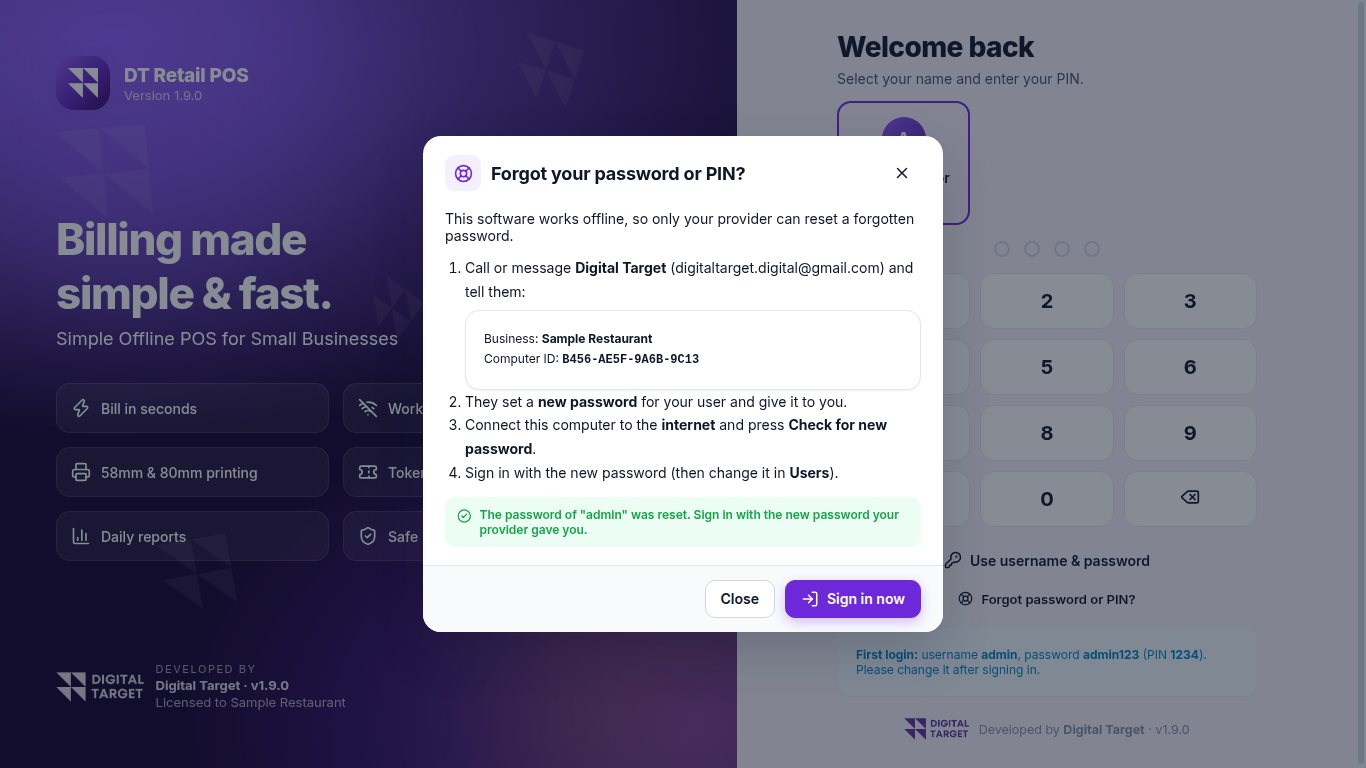
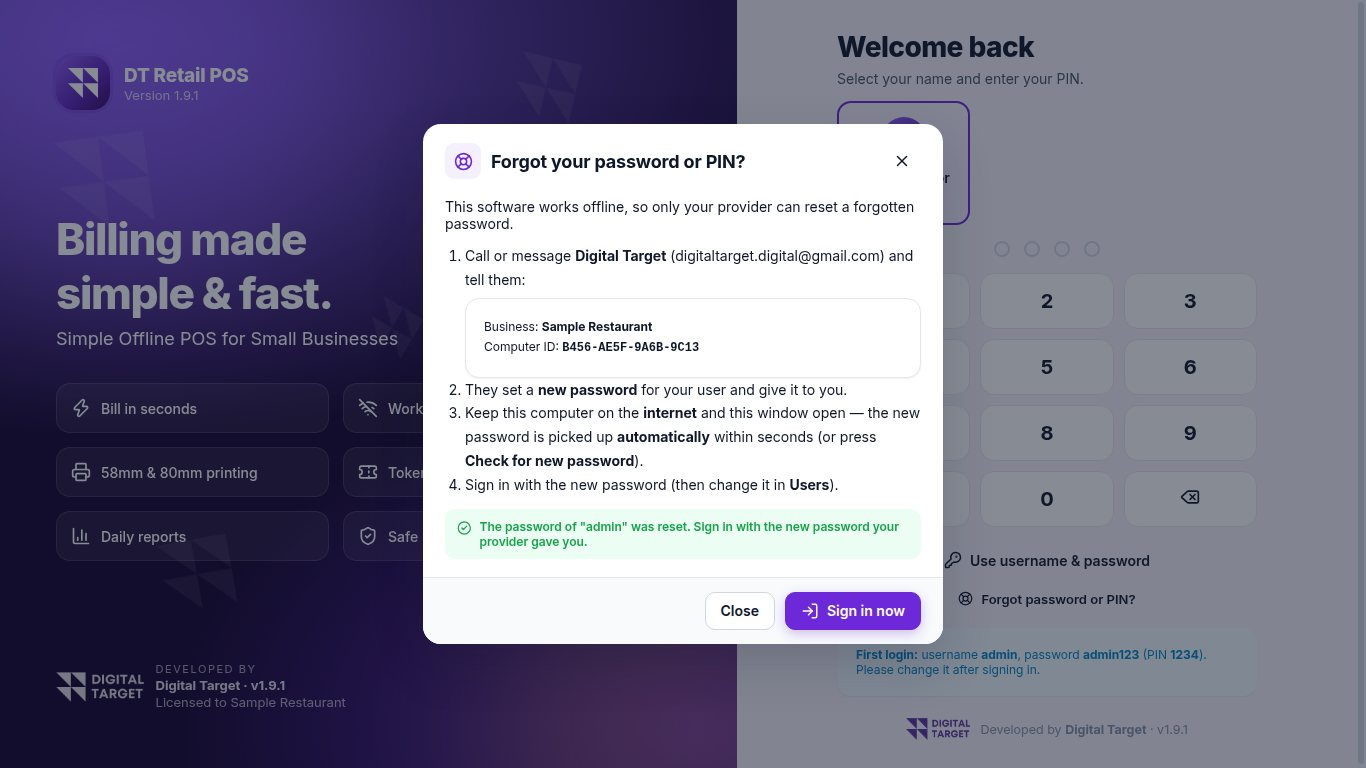
v1.9.1: password reset appears at once on the login screen
- The "Forgot password or PIN?" window checks for the provider's reset every 8 seconds by itself
- A reset applied by the background check is still announced for 30 minutes (no silent window)
- Panel version label, docs and screenshots refreshed; license e2e now waits for the automatic pick-up

Claude-Session: https://claude.ai/code/session_01Ww8SRUiWRq8sQYBtqpzwjb

diff --git a/electron/license/license.js b/electron/license/license.js
@@ -450,6 +450,7 @@ function sendHeartbeat(lid, mid) {
 
 /** Called at login: send the device details and a fresh location right away. */
 function touch() {
+  lastReset = null; // somebody signed in: the reset notice has done its job
   const s = load();
   const p = keyPayload();
   if (!p || !s.device || s.device.regMid !== machineId()) return;
@@ -459,6 +460,11 @@ function touch() {
 }
 
 let resetBusy = false;
+let lastReset = null; // { username, at } — a reset that was applied recently, so the login screen can still announce it
+const RESET_NOTICE_MS = 30 * 60 * 1000;
+const resetNotice = () => (lastReset && Date.now() - lastReset.at < RESET_NOTICE_MS
+  ? { state: 'applied', username: lastReset.username, message: `The password of "${lastReset.username}" was reset. Sign in with the new password your provider gave you.` }
+  : null);
 /**
  * Apply a password reset prepared by the provider in the Super Admin panel (needs internet; also runs with every
  * online check). Resolves to { state: 'applied' | 'none' | 'failed' | 'expired' | 'offline', username, message }.
@@ -478,7 +484,7 @@ async function checkPasswordReset() {
       if (err instanceof cloud.CloudError && err.offline) return { state: 'offline', message: 'No internet connection. Connect to the internet and try again.' };
       return { state: 'none', message: 'Could not reach the provider right now. Try again in a minute.' };
     }
-    if (!doc || doc.status !== 'pending' || doc.licenseId !== p.lid || doc.machineId !== mid) return { state: 'none', message: 'No password reset is waiting for this computer. Ask your provider to reset it, then press the button again.' };
+    if (!doc || doc.status !== 'pending' || doc.licenseId !== p.lid || doc.machineId !== mid) return resetNotice() || { state: 'none', message: 'No password reset is waiting for this computer. Ask your provider to reset it, then press the button again.' };
     if (!doc.expiresAt || !(new Date(doc.expiresAt).getTime() > Date.now())) {
       await cloud.finishPasswordReset(p.lid, mid, 'expired', 'Not applied in time').catch(() => {});
       return { state: 'expired', username: doc.username, message: 'This reset has expired. Ask your provider to send a new one.' };
@@ -486,6 +492,7 @@ async function checkPasswordReset() {
     const r = require('../services/auth').applyRemoteReset({ username: doc.username, passwordHash: doc.passwordHash, pinHash: doc.pinHash, removePin: doc.removePin === true });
     await cloud.finishPasswordReset(p.lid, mid, r.ok ? 'applied' : 'failed', r.ok ? 'Applied on the computer' : r.message).catch((err) => logger.warn('Could not report the password reset', err.message));
     logger[r.ok ? 'info' : 'warn']('Remote password reset', doc.username, r.ok ? 'applied' : r.message);
+    if (r.ok) lastReset = { username: r.username, at: Date.now() };
     return { state: r.ok ? 'applied' : 'failed', username: r.username, message: r.ok ? `The password of "${r.username}" was reset. Sign in with the new password your provider gave you.` : r.message };
   } finally {
     resetBusy = false;

diff --git a/tests/e2e-license.js b/tests/e2e-license.js
@@ -56,7 +56,7 @@ const server = http.createServer((req, res) => {
 });
 
 let failed = false;
-const step = async (name, fn) => { try { await fn(); console.log('OK  ', name); } catch (e) { failed = true; console.log('FAIL', name, String(e.message).split('\n')[0]); } };
+const step = async (name, fn) => { try { await fn(); console.log('OK  ', name); } catch (e) { failed = true; console.log('FAIL', name, String(e.message).split('\n')[0]); try { await globalThis.__page.screenshot({ path: path.join(SHOTS, 'fail-lic-' + name.replace(/\W+/g, '_').slice(0, 40) + '.png') }); } catch { /* ignore */ } } };
 
 (async () => {
   await new Promise((r) => server.listen(0, '127.0.0.1', r));
@@ -70,6 +70,7 @@ const step = async (name, fn) => { try { await fn(); console.log('OK  ', name); 
     page.on('pageerror', (e) => errors.push('pageerror: ' + e.message + ' ' + String(e.stack).split('\n').slice(0, 4).join(' | ')));
     page.on('console', (m) => m.type() === 'error' && errors.push('console: ' + m.text()));
     await page.setViewportSize({ width: 1366, height: 768 });
+    globalThis.__page = page;
     return { page, errors };
   };
   const blank = async (page) => (await page.evaluate(() => document.body.innerText.trim().length)) === 0;
@@ -133,13 +134,13 @@ const step = async (name, fn) => { try { await fn(); console.log('OK  ', name); 
     const mid = dk.split('_')[1];
     const salt = crypto.randomBytes(16);
     const hash = `pbkdf2$210000$${salt.toString('hex')}$${crypto.pbkdf2Sync('Fresh#2026', salt, 210000, 32, 'sha256').toString('hex')}`;
-    db.set(`passwordResets/LIC1_${mid}`, { licenseId: str('LIC1'), machineId: str(mid), username: str('admin'), passwordHash: str(hash), pinHash: str(''), removePin: { booleanValue: false }, status: str('pending'), note: str(''), expiresAt: { timestampValue: new Date(Date.now() + 7 * 864e5).toISOString() } });
     await page.click('button:has-text("Forgot password or PIN?")');
     await page.waitForSelector('.modal:has-text("Forgot your password or PIN?")');
     await page.waitForTimeout(900);
     await page.screenshot({ path: path.join(SHOTS, '72-forgot-password.png') });
-    await page.click('.modal button:has-text("Check for new password")');
-    await page.waitForSelector('.modal:has-text("was reset")', { timeout: 20000 });
+    // the provider sets the new password NOW; the open window must pick it up by itself (no button press)
+    db.set(`passwordResets/LIC1_${mid}`, { licenseId: str('LIC1'), machineId: str(mid), username: str('admin'), passwordHash: str(hash), pinHash: str(''), removePin: { booleanValue: false }, status: str('pending'), note: str(''), expiresAt: { timestampValue: new Date(Date.now() + 7 * 864e5).toISOString() } });
+    await page.waitForSelector('.modal:has-text("was reset")', { timeout: 40000 });
     await page.screenshot({ path: path.join(SHOTS, '73-reset-applied.png') });
     await page.click('.modal button:has-text("Sign in now")');
     await page.fill('input[type=password]', 'Fresh#2026');

diff --git a/src/pages/Login.jsx b/src/pages/Login.jsx
@@ -237,17 +237,30 @@ export default function Login() {
 function ForgotModal({ license, onClose, onApplied }) {
   const [busy, setBusy] = useState(false);
   const [res, setRes] = useState(null);
-  const check = async () => {
-    setBusy(true);
+  const check = async (quiet = false) => {
+    if (!quiet) setBusy(true);
     try {
-      setRes(await api('auth.checkReset'));
+      const r = await api('auth.checkReset');
+      // while waiting, only a real result replaces the screen ("nothing yet" stays silent)
+      if (!quiet || r.state === 'applied' || r.state === 'failed' || r.state === 'expired') setRes(r);
     } catch (e) {
-      setRes({ state: 'failed', message: e.message });
+      if (!quiet) setRes({ state: 'failed', message: e.message });
     } finally {
-      setBusy(false);
+      if (!quiet) setBusy(false);
     }
   };
   const ok = res?.state === 'applied';
+
+  // The provider's reset shows up by itself: look every 8 seconds while this window is open.
+  useEffect(() => {
+    if (ok) return undefined;
+    const t = setInterval(() => {
+      check(true);
+    }, 8000);
+    return () => {
+      clearInterval(t);
+    };
+  }, [ok]); // eslint-disable-line react-hooks/exhaustive-deps
   return (
     <Modal
       title="Forgot your password or PIN?"
@@ -257,7 +270,7 @@ function ForgotModal({ license, onClose, onApplied }) {
       footer={
         <>
           <Button onClick={onClose}>Close</Button>
-          {ok ? <Button variant="primary" icon={LogIn} onClick={() => onApplied(res.username)}>Sign in now</Button> : <Button variant="primary" icon={RefreshCw} loading={busy} onClick={check}>Check for new password</Button>}
+          {ok ? <Button variant="primary" icon={LogIn} onClick={() => onApplied(res.username)}>Sign in now</Button> : <Button variant="primary" icon={RefreshCw} loading={busy} onClick={() => check(false)}>Check for new password</Button>}
         </>
       }
     >
@@ -271,7 +284,7 @@ function ForgotModal({ license, onClose, onApplied }) {
             </div>
           </li>
           <li>They set a <b>new password</b> for your user and give it to you.</li>
-          <li>Connect this computer to the <b>internet</b> and press <b>Check for new password</b>.</li>
+          <li>Keep this computer on the <b>internet</b> and this window open — the new password is picked up <b>automatically</b> within seconds (or press <b>Check for new password</b>).</li>
           <li>Sign in with the new password (then change it in <b>Users</b>).</li>
         </ol>
         {res && (

diff --git a/superadmin/src/components/Brand.jsx b/superadmin/src/components/Brand.jsx
@@ -1,7 +1,7 @@
 import lockupWhite from '../assets/brand/dt-lockup-white.png';
 import lockupPurple from '../assets/brand/dt-lockup-purple.png';
 
-export const BRAND = { developer: 'Digital Target', product: 'DT Retail POS', panel: 'Super Admin', email: 'digitaltarget.digital@gmail.com', version: '1.9.0' };
+export const BRAND = { developer: 'Digital Target', product: 'DT Retail POS', panel: 'Super Admin', email: 'digitaltarget.digital@gmail.com', version: '1.9.1' };
 export const DT_LOCKUP_WHITE = lockupWhite;
 export const DT_LOCKUP_PURPLE = lockupPurple;
 

diff --git a/docs/DT_RETAIL_POS_SYSTEM_DETAILS.md b/docs/DT_RETAIL_POS_SYSTEM_DETAILS.md
@@ -1,6 +1,6 @@
 # DT Retail POS — System Details (Mukammal Tafseel)
 
-**Version 1.9.0 · Developed by Digital Target · digitaltarget.digital@gmail.com**
+**Version 1.9.1 · Developed by Digital Target · digitaltarget.digital@gmail.com**
 
 Yeh document **DT Retail POS** system ki poori tafseel hai: yeh kya hai, kya kya kar sakta hai, kaise kaam karta hai, license aur security ka nizam, technical dhancha, kya test hua aur kya abhi baqi hai. Is ko owner, investor, ya technical team — sab padh sakte hain. Roz ke istemaal ka tareeqa alag document **User Guide** (`DT_RETAIL_POS_USER_GUIDE.pdf`) mein hai.
 
@@ -208,7 +208,7 @@ POS offline software hai, isliye bhoola hua password software ke andar reset nah
 
 1. Provider panel mein **Devices** (ya **Licenses**) → restaurant ke saamne **chabi ka button** → user, naya password (aur chahe to PIN) → **Reset password**.
 2. Panel browser mein password ka **PBKDF2-SHA256 hash** (210,000 iterations) banata hai aur sirf hash `passwordResets/{licenseId}_{machineId}` mein likhta hai. **Asal password kahin save nahi hota**; woh sirf provider ko ek dafa dikhta hai taake client ko bata sake.
-3. Restaurant ka POS jab online ho (har minute ke check mein, ya login screen par **Forgot password or PIN? → Check for new password**) reset ko lagata hai: us user ka password (aur PIN) badal jata hai, ghalat-koshish ka lock khul jata hai, aur server par `status = applied` likh kar **hash mita deta hai**.
+3. Restaurant ka POS jab online ho reset ko lagata hai — har minute ke check mein, aur agar login screen par **Forgot password or PIN?** window khuli ho to **har 8 second mein khud** (button dabana zaroori nahi): us user ka password (aur PIN) badal jata hai, ghalat-koshish ka lock khul jata hai, aur server par `status = applied` likh kar **hash mita deta hai**.
 4. Reset sirf **usi computer** ke liye hota hai (license + machine id milte hain), **7 din** mein expire, aur **ek hi dafa** lagta hai. Pehle login par hash khud scrypt mein badal jata hai. Har reset provider ke **Activity Log** mein.
 
 **Hifazat ka note:** reset ka document sirf us computer ki (na-qabil-e-andaza) id se paya ja sakta hai, aur lagne ke baad hash mita diya jata hai; sirf admins naya reset bana ya hata sakte hain (Firestore rules).
@@ -286,8 +286,8 @@ Retail-pos/
 | Cheez | Tafseel |
 |---|---|
 | **Zaroorat** | Windows 10 / 11 (64-bit), 4 GB RAM, 500 MB jagah, optional thermal printer |
-| **Installer** | `RetailPOS-Setup-1.9.0.exe` (NSIS): install folder chunna, desktop aur Start-menu shortcut "DT Retail POS", uninstall par data mehfooz |
-| **Portable** | `RetailPOS-Portable-1.9.0.exe` (bina install) |
+| **Installer** | `RetailPOS-Setup-1.9.1.exe` (NSIS): install folder chunna, desktop aur Start-menu shortcut "DT Retail POS", uninstall par data mehfooz |
+| **Portable** | `RetailPOS-Portable-1.9.1.exe` (bina install) |
 | **Build** | Windows par `npm run dist`, ya GitHub Actions workflow "Build Windows installer" |
 | **Panel deploy** | `cd superadmin && npx firebase-tools deploy` (hosting + rules) — har version ke baad rules dobara deploy |
 
@@ -337,6 +337,7 @@ Retail-pos/
 | **1.7** | Chhoti license key, pehli launch par business / owner / mobile, device approval, exact Windows location |
 | **1.8** | Variants (sizes), recipes, kg number pad; categories (top "⋯" / left rail); **Excel + JSON export / import**; device location fix |
 | **1.8.1** | POS table picker mein floors; token slip par waiter / rider |
+| **1.9.1** | Forgot-password window reset ko **khud (8 second mein)** utha leti hai; version label sab jagah theek |
 | **1.9.0** | **Provider se password reset** (Forgot password screen, hash-only), **restaurants ki roz / mahane ki sale** panel mein (Dashboard, Licenses, Clients, Devices, Map), **map par logo + naam + sale wale pins**, POS users ki list provider ko |
 
 ---

diff --git a/docs/DT_RETAIL_POS_USER_GUIDE.md b/docs/DT_RETAIL_POS_USER_GUIDE.md
@@ -1,6 +1,6 @@
 # DT Retail POS — User Guide (Istemaal ki Rehnumai)
 
-**Version 1.9.0 · Digital Target · digitaltarget.digital@gmail.com**
+**Version 1.9.1 · Digital Target · digitaltarget.digital@gmail.com**
 
 Yeh guide restaurant / dukaan ke **owner, manager, cashier aur waiter** ke liye hai. Is mein software install karne se le kar rozana billing, reports, backup aur masail ke hal tak sab kuch **qadam ba qadam** likha hai. Screen par jo naam likhe hain (jaise **Settings → Printers**) bilkul wohi button / tab ke naam hain jo software mein nazar aate hain.
 
@@ -16,7 +16,7 @@ Aakhir mein (Appendix A) **Super Admin panel** ki guide bhi hai — yeh sirf sof
 - Internet **sirf pehli activation** ke liye chahiye (ek dafa). Uske baad poora software internet ke baghair chalta hai.
 
 ### 1.2 Install karna
-1. Provider se mila hua **RetailPOS-Setup-1.9.0.exe** double-click karein (ya bina install wali file **RetailPOS-Portable-1.9.0.exe**).
+1. Provider se mila hua **RetailPOS-Setup-1.9.1.exe** double-click karein (ya bina install wali file **RetailPOS-Portable-1.9.1.exe**).
 2. Install folder chunein, **Install** dabayein. Desktop par **DT Retail POS** ka shortcut ban jata hai.
 3. Aap ka saara data `C:\Users\<aap ka naam>\AppData\Roaming\Retail POS\` mein rehta hai. Software uninstall karne se data **delete nahi hota**.
 
@@ -69,14 +69,14 @@ Software offline chalta hai, isliye password software ke andar se reset nahi ho 
 
 1. Login screen par neeche **Forgot password or PIN?** dabayein. Window mein aap ka **Business name** aur **Computer ID** likha hota hai.
 2. Provider ko call / WhatsApp karein aur yeh dono bata dein. Woh Super Admin panel se aap ke user ka **naya password** tay kar ke aap ko bata dete hain.
-3. Computer ko **internet** se jorein aur **Check for new password** dabayein.
+3. Computer ko **internet** se jorein aur yeh window khuli rakhein — provider jaise hi reset kare, software **khud (takreeban 8 second mein)** naya password utha leta hai. Chahein to **Check for new password** bhi dabayein.
 4. "The password of … was reset" aaye to **Sign in now** dabayein, naya password likhein. Phir **Users → Edit** mein apna pasandida password laga lein.
 
 ![Forgot password — provider se reset ke baad "Check for new password"](guide-images/forgot-password.jpg)
 
 ![Reset lag gaya — ab naye password se sign in](guide-images/reset-applied.jpg)
 
-**Dhyan dein:** reset 7 din tak chalta hai; ek dafa lag jaye to dobara istemaal nahi hota (purana password band ho jata hai). Agar software internet par pehle se khula hai to reset takreeban ek minute mein khud lag jata hai — button dabana lazmi nahi.
+**Dhyan dein:** reset 7 din tak chalta hai; ek dafa lag jaye to dobara istemaal nahi hota (purana password band ho jata hai). Agar window band bhi ho aur software internet par ho to reset takreeban ek minute mein khud lag jata hai — button dabana lazmi nahi.
 
 ---
 

diff --git a/docs/SUPER_ADMIN_SETUP.md b/docs/SUPER_ADMIN_SETUP.md
@@ -120,7 +120,7 @@ Sign-in screen: **Test cloud connection** checks Firestore, the deployed rules a
 
 ## 11. v1.9 — password reset, restaurants' sales, logo pins
 * **Deploy again** (`cd superadmin && npx firebase-tools deploy`): the rules gained the `passwordResets` collection and the new heartbeat fields (`salesToday`, `salesMonth`, `salesDate`, `salesDays`, `posUsers`, `logoThumb`). Until then the POS still works and shows online / last seen (it falls back to fewer fields), but sales / users / logo do not arrive.
-* **Reset a forgotten POS password:** Devices (or Licenses) → key button → choose the user → New password (Generate) → *Reset password* → copy the WhatsApp message. The POS applies it within about a minute when online, or when the client presses *Forgot password or PIN? → Check for new password* on the login screen. Only a PBKDF2 hash is stored (and wiped after it is applied); valid for 7 days; logged in the Activity Log.
+* **Reset a forgotten POS password:** Devices (or Licenses) → key button → choose the user → New password (Generate) → *Reset password* → copy the WhatsApp message. The POS applies it within about a minute when online, or — when the client has the *Forgot password or PIN?* window open on the login screen — within about 8 seconds, without pressing anything. Only a PBKDF2 hash is stored (and wiped after it is applied); valid for 7 days; logged in the Activity Log.
 * **Sales:** the POS sends totals only (today, this month, last 14 days) shortly after each sale. See Dashboard → *Restaurants' sales*, the *Sales today / month* column on Licenses and Clients, each device row, and the map pins. A device that has not been online today shows "—" for today.
 * **Map:** every pin shows the restaurant's logo (thumbnail sent by its POS), name and today's sales.
 
